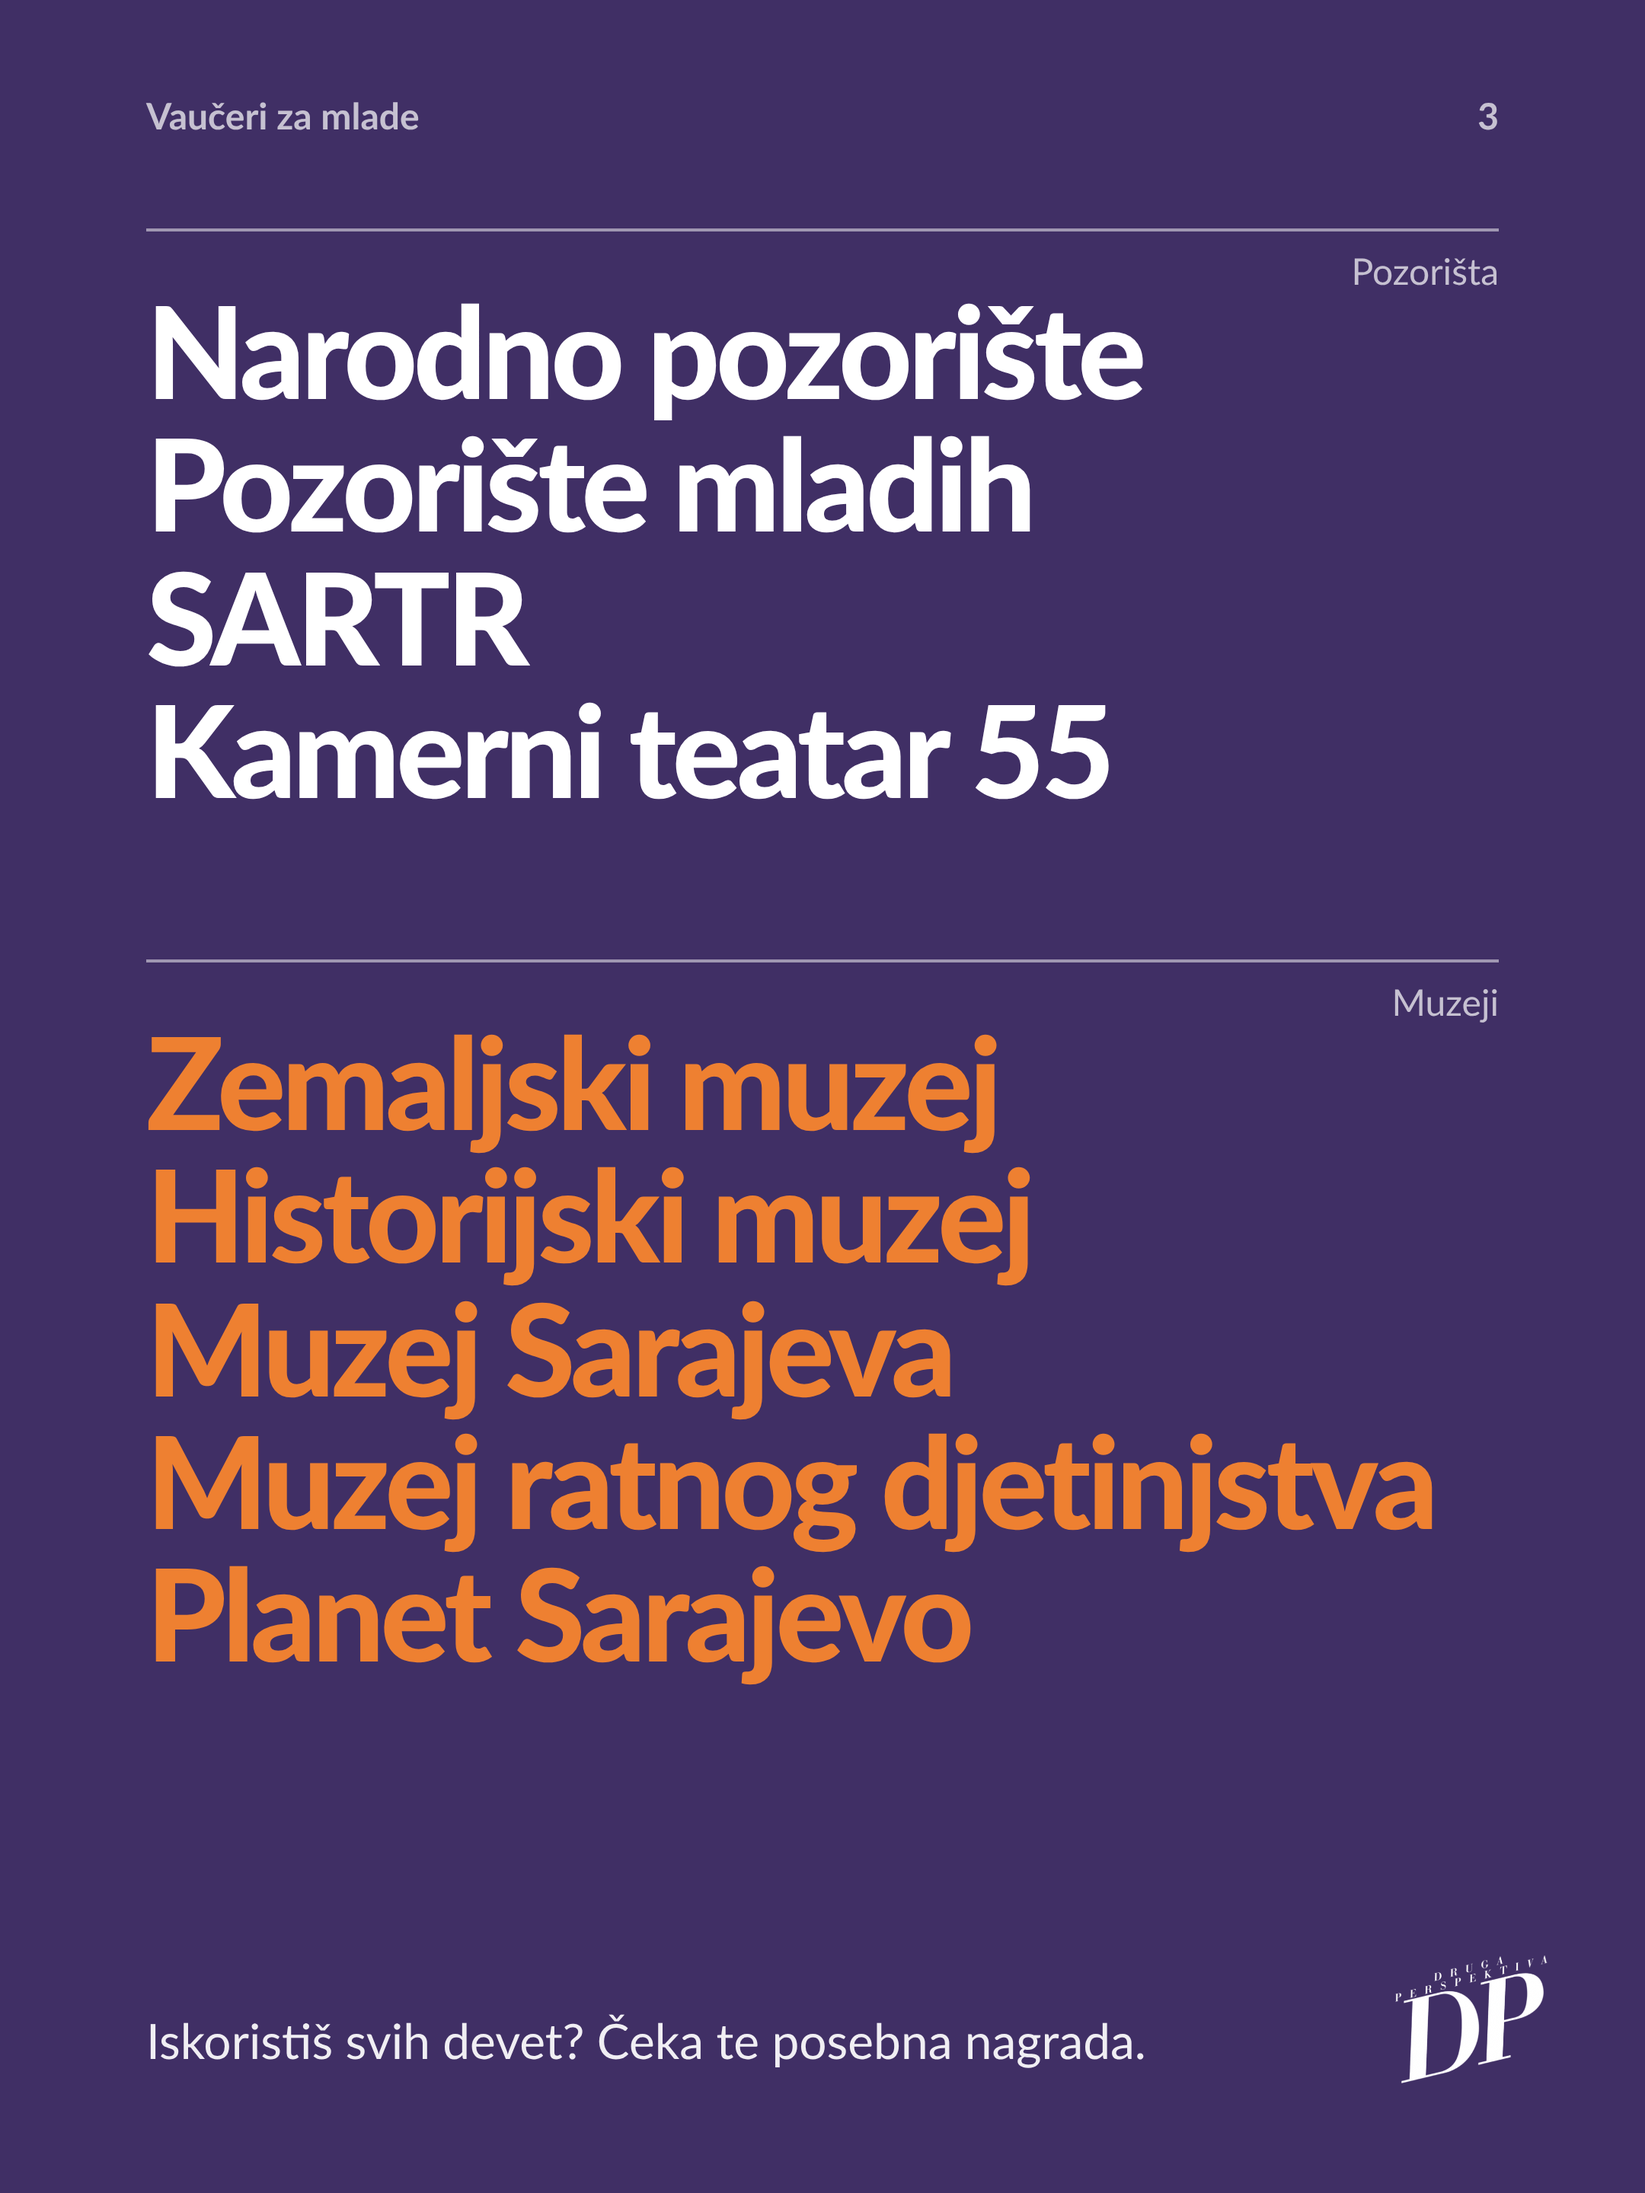
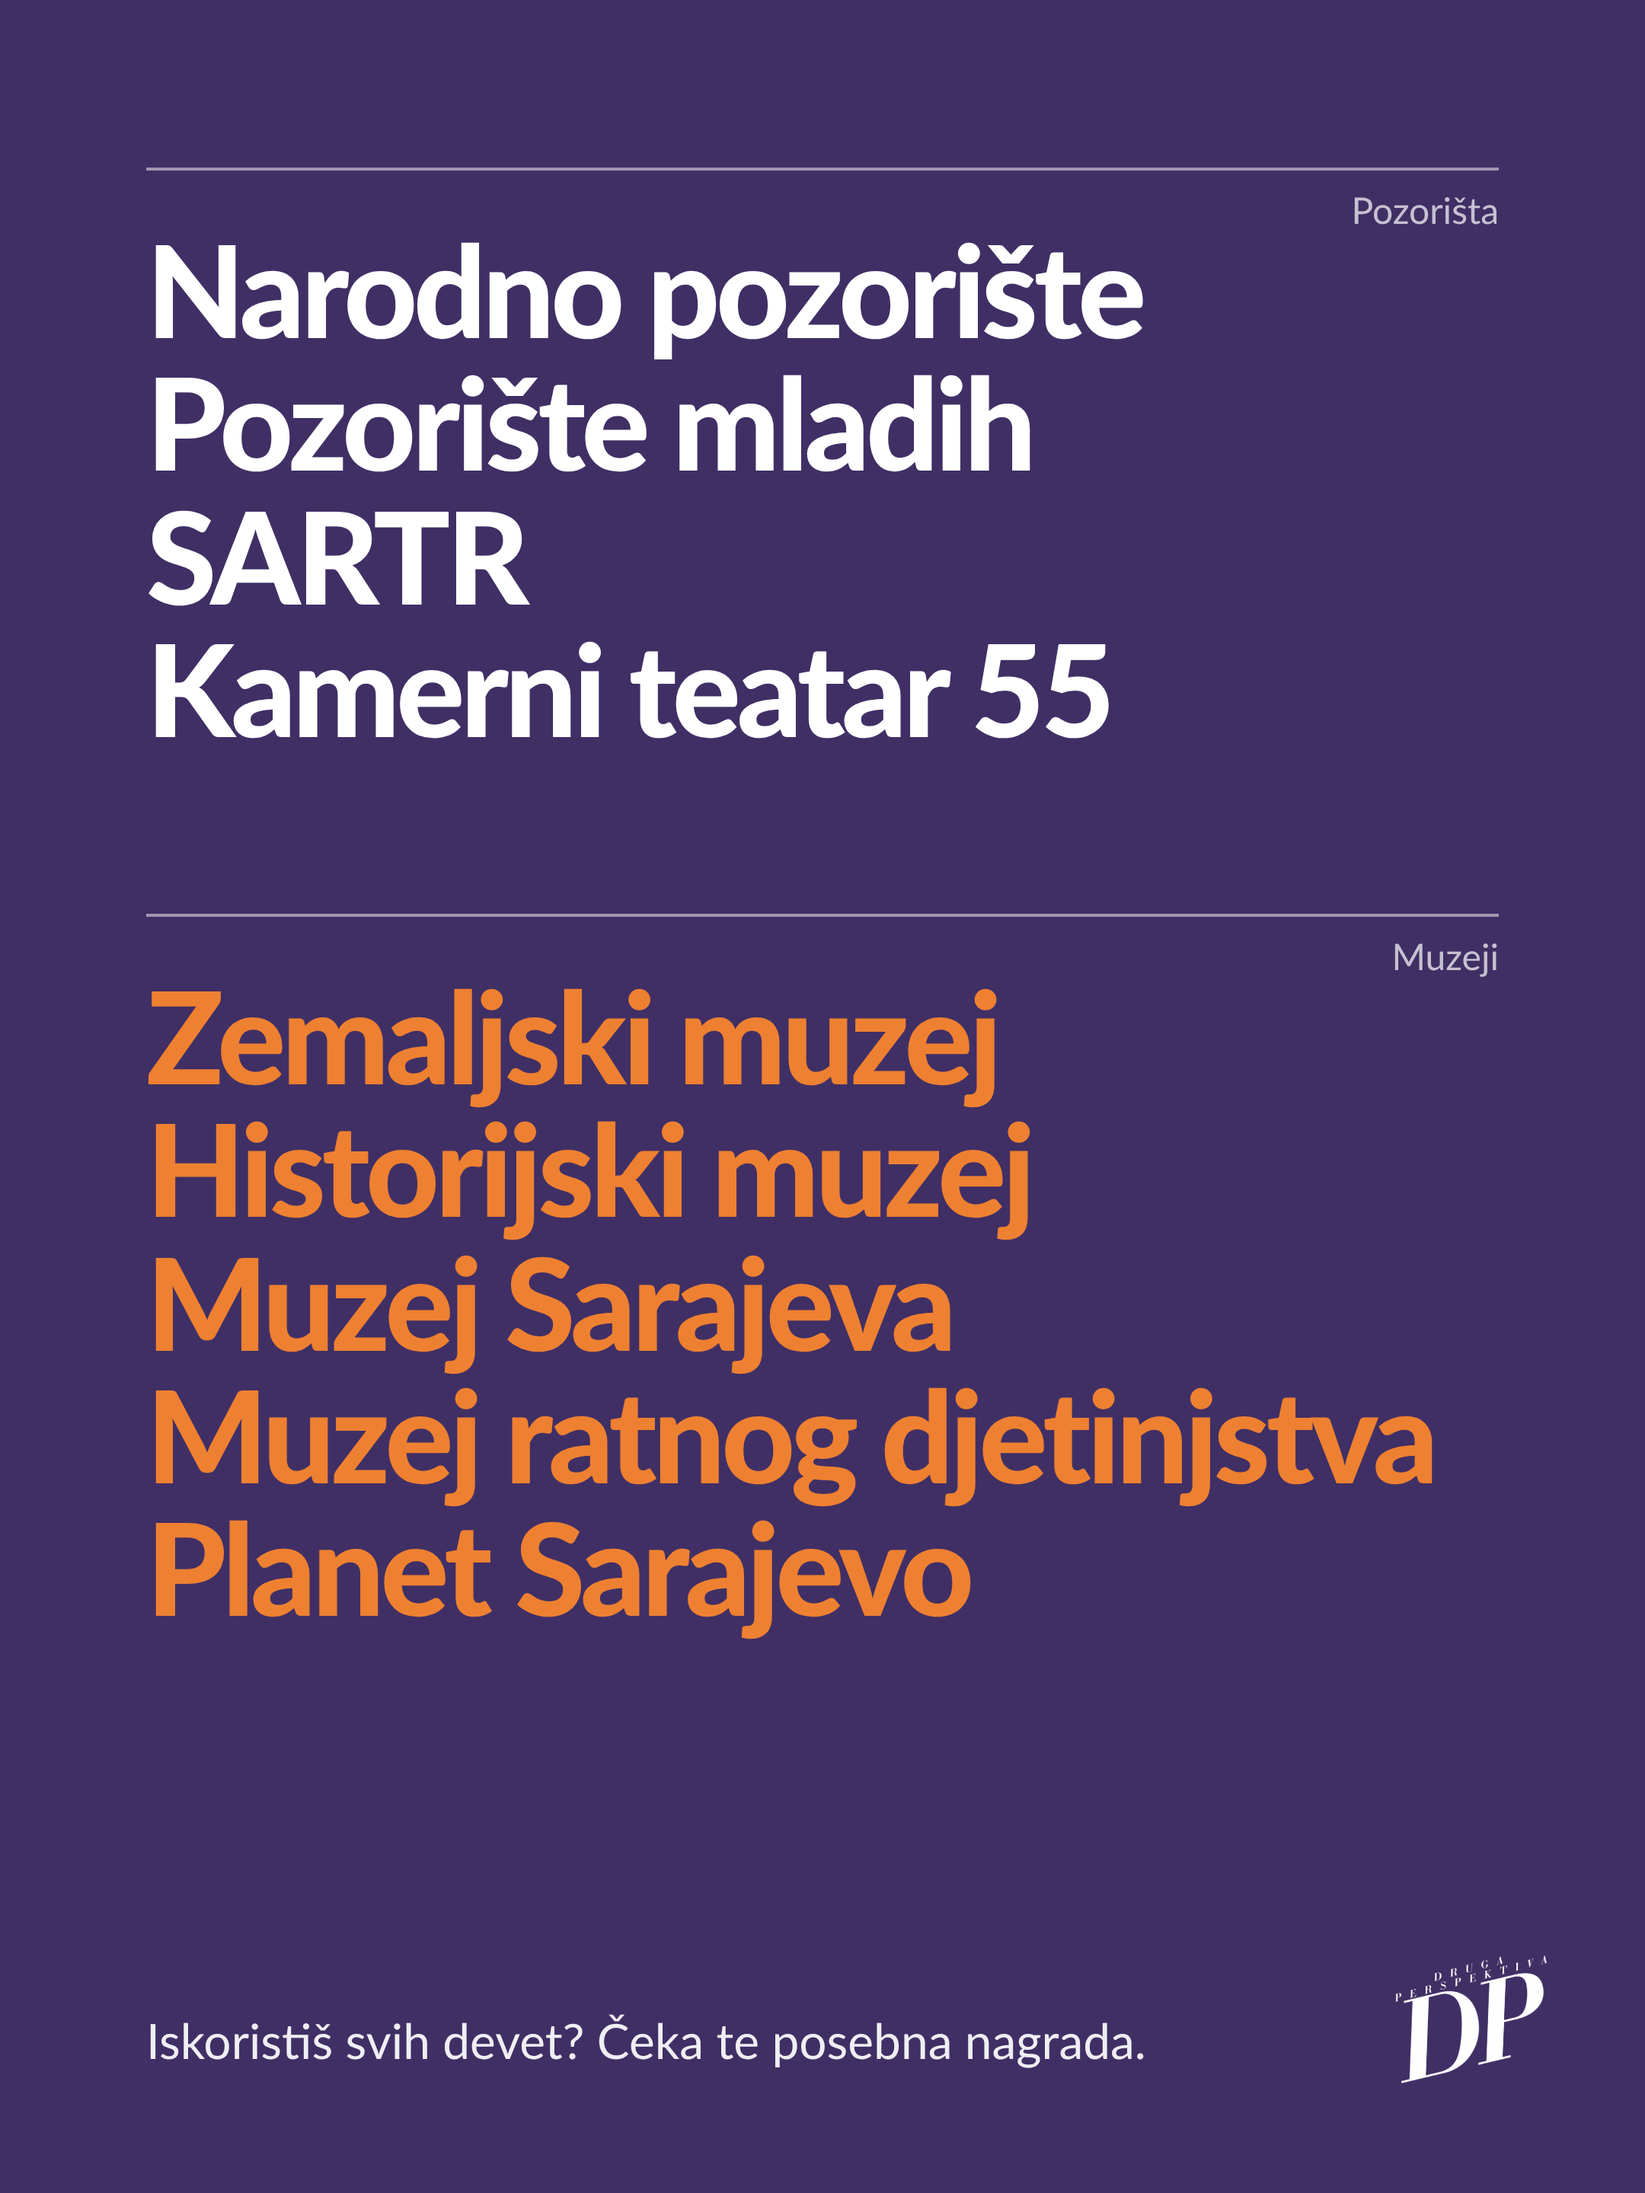
Vaučeri za mlade: kratko objašnjenje na drugom slajdu, bez zaglavlja i podnožja
Claude-Session: https://claude.ai/code/session_01SB3ebjUddtcZXLP7FT1aSs

diff --git a/promo/vauceri-za-mlade/dizajn.html b/promo/vauceri-za-mlade/dizajn.html
@@ -85,20 +85,21 @@ body { background: #777; font-family: "Lato", sans-serif; color: #fff; padding: 
 /* Slajd 2: tamni tekst na nebu, zgrada nosi donji dio */
 .c .foto { height: 1660px; bottom: auto; object-position: 50% 0%; }
 .c .folio { color: rgba(20,20,20,.7); }
-.c .izjava { position: absolute; left: 96px; right: 96px; top: 118px; font-size: 104px; color: var(--tinta); }
-.c .prelaz { height: 30%; }
+.c .objasnjenje { position: absolute; left: 96px; right: 96px; top: 92px; font-size: 48px; font-weight: 700; line-height: 1.14; letter-spacing: -0.018em; color: var(--tinta); text-wrap: pretty; }
+.c .prelaz { height: 22%; }
+.c .potpis { color: rgba(255,255,255,.85); text-shadow: 0 0 6px rgba(0,0,0,.6); }
 .c .dno { position: absolute; left: 96px; right: 260px; bottom: 76px; font-size: 32px; line-height: 1.3; color: rgba(255,255,255,.92); }
 
 /* Slajd 3: dvije trake, pozorišta i muzeji */
 .a .traka { position: absolute; left: 96px; right: 96px; }
-.a .t1 { top: 150px; } .a .t2 { top: 630px; }
+.a .t1 { top: 110px; } .a .t2 { top: 600px; }
 .a .imena { padding-top: 34px; }
 .a .imena span { display: block; white-space: nowrap; font-size: 84px; font-weight: 900; line-height: 1.04; letter-spacing: -0.032em; }
 .a .t2 .imena span { color: var(--narandza); }
 .a .dno { position: absolute; left: 96px; right: 260px; bottom: 76px; font-size: 32px; line-height: 1.3; color: rgba(255,255,255,.92); }
 
 /* Slajd 4: tri trake jednake visine */
-.k .koraci { position: absolute; left: 96px; right: 96px; top: 150px; bottom: 210px; display: grid; grid-template-rows: 1fr 1fr 1fr; }
+.k .koraci { position: absolute; left: 96px; right: 96px; top: 110px; bottom: 170px; display: grid; grid-template-rows: 1fr 1fr 1fr; }
 .k .veliko { padding-top: 30px; font-size: 112px; font-weight: 900; line-height: .95; letter-spacing: -0.035em; }
 .k .detalj { margin-top: 18px; font-size: 34px; line-height: 1.3; color: rgba(255,255,255,.72); max-width: 700px; }
 .izvor { position: absolute; left: 96px; right: 260px; bottom: 76px; font-size: 22px; line-height: 1.4; color: rgba(255,255,255,.6); }
@@ -109,15 +110,12 @@ body { background: #777; font-family: "Lato", sans-serif; color: #fff; padding: 
 <section class="slide post c">
 	<img class="foto" src="muzej.jpg" alt="Historijski muzej Bosne i Hercegovine 1963. godine">
 	<div class="prelaz"></div>
-	<div class="folio"><span>Vaučeri za mlade</span><span>2</span></div>
-	<p class="izjava">Devet ulaznica. Svaka za&nbsp;dvoje.</p>
-	<p class="dno">Poklon za 18. rođendan svima rođenim 2008. koji žive u&nbsp;Kantonu Sarajevo.</p>
+	<p class="objasnjenje">Za punoljetstvo, svi rođeni 2008. koji žive u&nbsp;Kantonu Sarajevo dobijaju devet besplatnih ulaznica za pozorišta i&nbsp;muzeje. Svaka vrijedi za dvoje.</p>
 	<img class="logo" src="../../dp-objave/assets/logo-bijeli.png" alt="">
 	<div class="potpis">Foto: Boris Magaš, CC BY-SA 4.0</div>
 </section>
 
 <section class="slide post a">
-	<div class="folio"><span>Vaučeri za mlade</span><span>3</span></div>
 	<div class="traka t1"><span class="oznaka-trake">Pozorišta</span>
 		<div class="imena"><span>Narodno pozorište</span><span>Pozorište mladih</span><span>SARTR</span><span>Kamerni teatar&nbsp;55</span></div>
 	</div>
@@ -129,7 +127,6 @@ body { background: #777; font-family: "Lato", sans-serif; color: #fff; padding: 
 </section>
 
 <section class="slide post k">
-	<div class="folio"><span>Vaučeri za mlade</span><span>4</span></div>
 	<div class="koraci">
 		<div class="traka"><span class="oznaka-trake">Prvo</span>
 			<p class="veliko">Prijavi se</p>
@@ -144,7 +141,6 @@ body { background: #777; font-family: "Lato", sans-serif; color: #fff; padding: 
 			<p class="detalj">Ministarstvo za nauku, visoko obrazovanje i&nbsp;mlade KS, Branilaca Sarajeva&nbsp;21, II&nbsp;sprat, kancelarija&nbsp;201</p>
 		</div>
 	</div>
-	<p class="izvor">Izvor: dopis Ministarstva za nauku, visoko obrazovanje i mlade KS od 27.&nbsp;oktobra 2026.</p>
 	<img class="logo" src="../../dp-objave/assets/logo-bijeli.png" alt="">
 </section>
 
